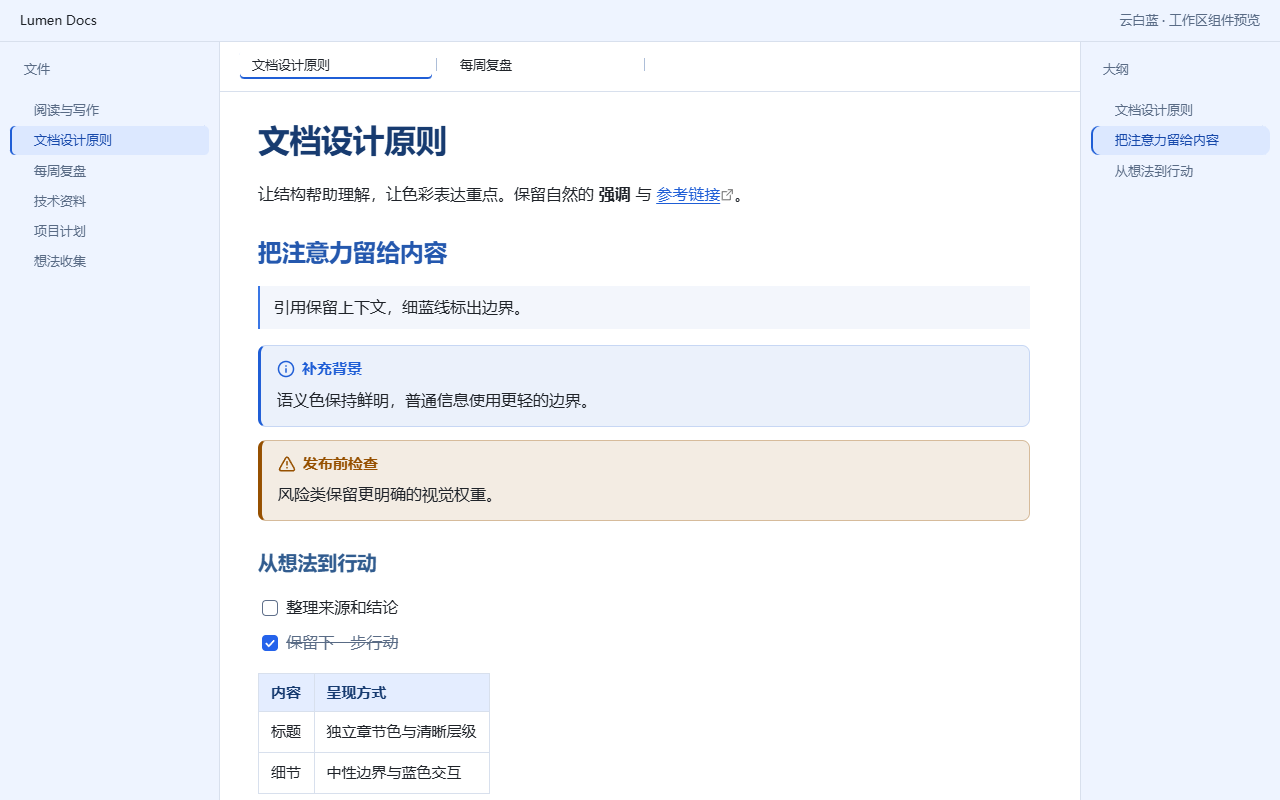
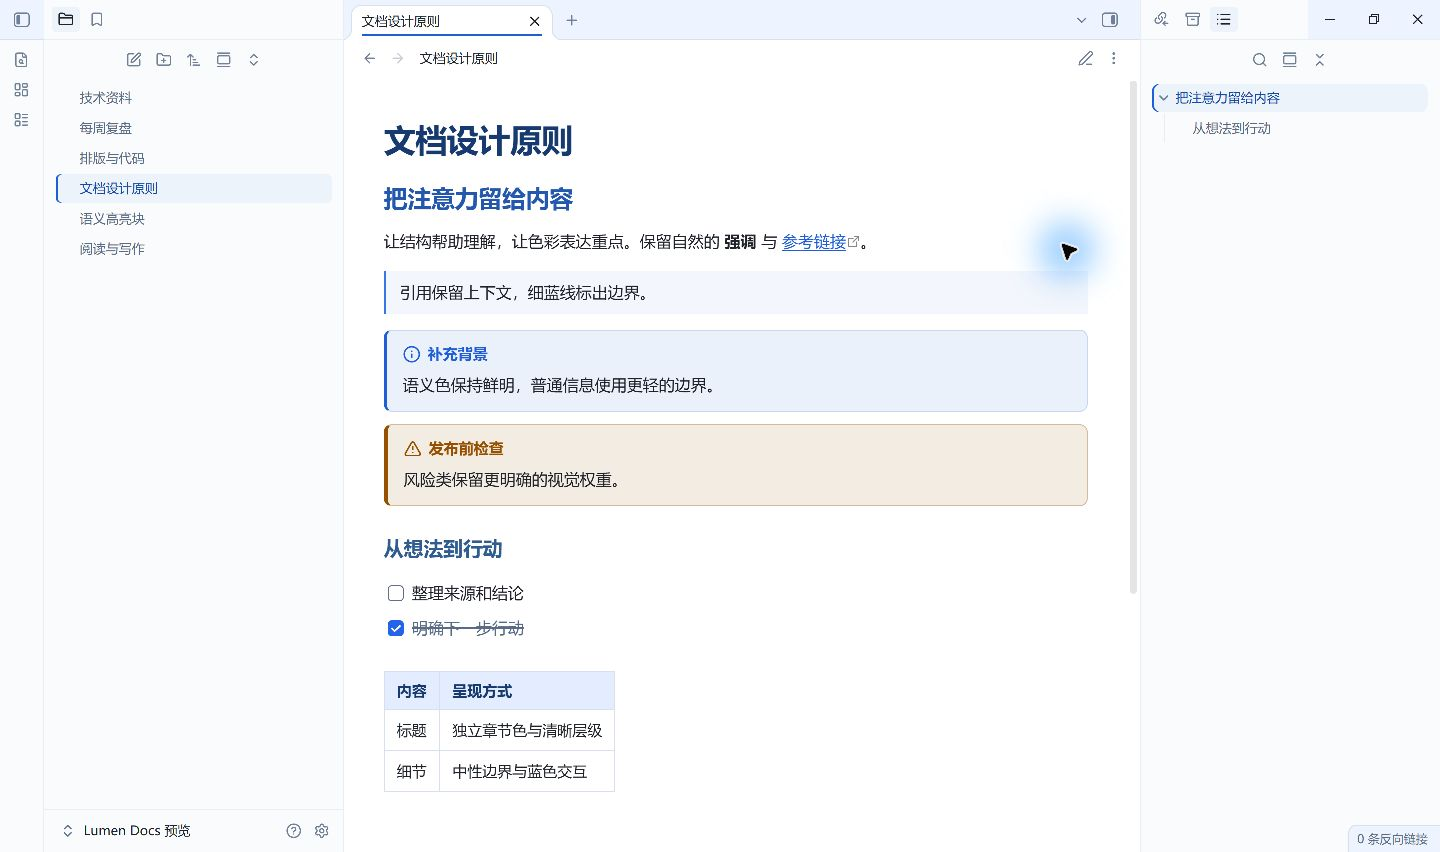
feat: release Lumen Docs 0.1.3 with lighter sidebars

diff --git a/theme.css b/theme.css
@@ -1,5 +1,5 @@
 /*
- * Lumen Docs 0.1.2
+ * Lumen Docs 0.1.3
  * Cloud white, ink-blue headings, and clear semantic color for Obsidian.
  * Copyright (c) 2026 Zheng and Lumen Docs contributors. MIT License.
  */
@@ -367,6 +367,33 @@ body {
 
 .workspace-ribbon, .workspace-split.mod-left-split, .workspace-split.mod-right-split {
   background: var(--background-secondary);
+}
+
+/* A trace of cool color keeps light sidebars close to the white document. */
+.theme-light :is(.workspace-ribbon, .workspace-split.mod-left-split, .workspace-split.mod-right-split) {
+  --background-secondary: #f9fbfd;
+  --background-secondary-alt: #f2f6fa;
+  --background-modifier-border: #e9eef4;
+  --background-modifier-border-hover: #d7e1ed;
+  --divider-color: #e9eef4;
+  --background-modifier-hover: rgb(37 99 235 / 4%);
+  --nav-item-background-hover: rgb(37 99 235 / 4%);
+  --nav-item-background-active: #edf3fb;
+  --nav-indentation-guide-color: #e7edf4;
+  --tab-container-background: #f9fbfd;
+  --tab-background-active: #edf3fb;
+  --scrollbar-bg: rgb(89 107 133 / 4%);
+  --scrollbar-thumb-bg: rgb(89 107 133 / 14%);
+  --scrollbar-active-thumb-bg: rgb(89 107 133 / 24%);
+}
+
+.theme-light :is(.workspace-split.mod-left-split, .workspace-split.mod-right-split) .workspace-tab-header-container {
+  background: var(--background-secondary);
+  border-color: var(--background-modifier-border);
+}
+
+.theme-light :is(.workspace-split.mod-left-split, .workspace-split.mod-right-split) .workspace-tab-header.is-active .workspace-tab-header-inner {
+  background: var(--nav-item-background-active);
 }
 
 .nav-file-title, .nav-folder-title {

diff --git a/README.md b/README.md
@@ -8,31 +8,31 @@ Lumen Docs is a lightweight Obsidian theme for clear, comfortable document readi
 
 The theme supports light and dark appearances in Live Preview and Reading view. It uses native Obsidian CSS variables and needs no additional plugins, downloaded fonts, or network services.
 
-Version: **0.1.2**. Requires **Obsidian 1.13.0 or later**.
+Version: **0.1.3**. Requires **Obsidian 1.13.0 or later**.
 
-The previews and features below describe the current repository, including unreleased refinements after **0.1.2**. For that appearance, download [theme.css](theme.css) and [manifest.json](manifest.json) from the default branch; GitHub Release **0.1.2** retains its published appearance.
+Version 0.1.3 adds near-white light sidebars and softer document styling. Download the installation files from [Releases](https://github.com/Beta-Zheng/lumen-docs/releases/latest).
 
 ## Preview
 
-Previews use isolated sample content rendered in Obsidian. The workspace component views show native interface elements with sample file names.
+Captured with Lumen Docs 0.1.3 in Obsidian 1.15.0 using an isolated sample vault. All file names and documents are demonstration content.
 
 ### Light
 
-![Lumen Docs light appearance](screenshots/light.png)
+![Lumen Docs 0.1.3 light workspace with near-white sidebars](screenshots/interface-light.png)
 
-[Content details](screenshots/details-light.png) · [Semantic callouts](screenshots/callouts-light.png) · [Workspace components](screenshots/interface-light.png)
+[Document layout](screenshots/light.png) · [Content details](screenshots/details-light.png) · [Semantic callouts](screenshots/callouts-light.png)
 
 ### Dark
 
-![Lumen Docs dark appearance](screenshots/dark.png)
+![Lumen Docs 0.1.3 dark workspace](screenshots/interface-dark.png)
 
-[Content details](screenshots/details-dark.png) · [Semantic callouts](screenshots/callouts-dark.png) · [Workspace components](screenshots/interface-dark.png)
+[Document layout](screenshots/dark.png) · [Content details](screenshots/details-dark.png) · [Semantic callouts](screenshots/callouts-dark.png)
 
 ## Installation
 
 ### Manual installation
 
-1. Download **`theme.css` and `manifest.json`** from a GitHub Release for its published appearance, or from the default branch for the refinements shown here. Use both files from the same source. The source archive is optional; the two files are sufficient to install the theme.
+1. Download **`theme.css` and `manifest.json`** from the same [GitHub Release](https://github.com/Beta-Zheng/lumen-docs/releases/latest). The source archive is optional; the two files are sufficient to install the theme.
 2. Create `.obsidian/themes/Lumen Docs/` inside your vault and copy both files there. If your vault uses a custom configuration folder, use that folder instead of `.obsidian`.
 3. Open **Settings → Appearance → Themes** and select **Lumen Docs**. Reopen Settings or restart Obsidian if the theme does not appear immediately.
 4. Choose light, dark, or your preferred system appearance.
@@ -53,7 +53,7 @@ Installation does not require Node.js or community plugins. To update, replace b
 - **Blue identity:** ink-blue titles, deeper blue chapter headings, and slate-blue subheadings establish hierarchy. Chapter headings use their own color rather than sharing the brighter link color; the smallest heading stays at the body text size.
 - **Comfortable layout:** the default readable width is 800px and line height is 1.7. Font family and text size follow your Obsidian settings.
 - **Purposeful accents:** blue identifies links, checked tasks, and interactive states; amber-yellow marks highlighted text.
-- **Clear structure:** thin blue quote rules, blue-tinted table headers, and cloud-blue sidebars make the document structure visible. Neutral structural borders keep ordinary content from competing for attention.
+- **Clear structure:** thin blue quote rules, blue-tinted table headers, and near-white light sidebars make the document structure visible. Neutral structural borders keep ordinary content from competing for attention.
 - **Readable code:** keywords, functions, strings, values, and comments have distinct roles on a neutral background.
 - **Consistent details:** tags, note embeds, footnotes, menus, suggestions, and keyboard focus share quiet surfaces and clear blue accents. Optional desktop navigation density changes file and outline row spacing without shrinking note text or mobile targets.
 - **Responsive spacing:** narrower screens use smaller page margins, compact callout padding, and wrapping for long titles and tags.
@@ -93,7 +93,7 @@ Compact styling applies only to non-collapsible `note` callouts and visually hid
 | Role | Light | Dark |
 | --- | --- | --- |
 | Document background | `#FFFFFF` | `#172033` |
-| Sidebar background | `#EEF4FF` | `#111A2B` |
+| Sidebar background | `#F9FBFD` | `#111A2B` |
 | Body text | `#1F2329` | `#E2EAF6` |
 | Secondary text | `#596B85` | `#AEBBD0` |
 | Document title | `#173B70` | `#D1E2FF` |

diff --git a/README.zh-CN.md b/README.zh-CN.md
@@ -8,25 +8,25 @@
 
 支持浅色与深色外观，适用于实时预览和阅读视图。主题使用原生 CSS 变量，不需要额外插件、字体或网络服务。
 
-当前版本：**0.1.2**。
+当前版本：**0.1.3**。
 
-以下预览和功能说明对应仓库当前代码，包含 **0.1.2 之后尚未发布的优化**。体验本页样式时，请从默认分支下载 [theme.css](theme.css) 和 [manifest.json](manifest.json)；GitHub Release **0.1.2** 保留已发布时的外观。
+0.1.3 带来接近白色的浅色侧栏，以及更柔和的文档排版。安装文件可从 [Releases](https://github.com/Beta-Zheng/lumen-docs/releases/latest) 下载。
 
 ## 预览
 
-预览使用在 Obsidian 中渲染的独立示例内容；工作区组件预览采用原生界面元素与示例文件名。
+以下截图使用 Lumen Docs 0.1.3，在 Obsidian 1.15.0 的独立示例库中截取。文件名与文档均为演示内容。
 
 ### 浅色
 
-![Lumen Docs 浅色外观](screenshots/light.png)
+![Lumen Docs 0.1.3 浅色工作区与接近白色的侧栏](screenshots/interface-light.png)
 
-[内容细节](screenshots/details-light.png) · [高亮块配色](screenshots/callouts-light.png) · [工作区组件](screenshots/interface-light.png)
+[文档排版](screenshots/light.png) · [内容细节](screenshots/details-light.png) · [高亮块配色](screenshots/callouts-light.png)
 
 ### 深色
 
-![Lumen Docs 深色外观](screenshots/dark.png)
+![Lumen Docs 0.1.3 深色工作区](screenshots/interface-dark.png)
 
-[内容细节](screenshots/details-dark.png) · [高亮块配色](screenshots/callouts-dark.png) · [工作区组件](screenshots/interface-dark.png)
+[文档排版](screenshots/dark.png) · [内容细节](screenshots/details-dark.png) · [高亮块配色](screenshots/callouts-dark.png)
 
 ## 安装与使用
 
@@ -34,7 +34,7 @@
 
 ### 手动安装
 
-1. 从本仓库的 GitHub Release 下载 `theme.css` 和 `manifest.json`，使用该版本的已发布样式；体验本页所示优化时，从默认分支下载。请使用同一来源的两个安装文件。
+1. 从同一个 [GitHub Release](https://github.com/Beta-Zheng/lumen-docs/releases/latest) 下载 `theme.css` 和 `manifest.json`。
 2. 在笔记库配置目录中创建 `.obsidian/themes/Lumen Docs/`，将两个文件放入其中。
 3. 打开 Obsidian「设置 → 外观 → 主题」，选择 **Lumen Docs**。如果没有出现在列表中，重新打开设置或重启 Obsidian。
 4. 按偏好选择浅色、深色或跟随系统外观。
@@ -98,7 +98,7 @@ console.log(message);
 - **引用**：细蓝线与灰蓝底色，正文保持清晰，保留用户明确写下的斜体。
 - **表格**：浅蓝表头、清晰网格线和单元格留白建立结构。
 - **代码**：中性底色搭配按角色区分的语法色；行内代码保持安静。
-- **界面**：云蓝侧栏、明确的选中底色与蓝色活动标记，与正文保持清楚的层次。
+- **界面**：浅色侧栏接近白色，配合淡蓝灰选中底色与蓝色活动标记；深色保留夜蓝层次。
 - **细节**：标签、笔记嵌入、脚注、菜单、候选项与键盘焦点采用同一套灰阶和蓝色强调；结构边框使用中性色，避免处处强调。
 - **密度**：桌面文件列表与大纲可选择舒适或紧凑行间距，正文排版与移动端触控尺寸保持原生行为。
 - **窄屏**：缩小页边距和提示块内边距，长标题与标签可自然换行。
@@ -127,7 +127,7 @@ console.log(message);
 | 用途 | 浅色 | 深色 |
 | --- | --- | --- |
 | 正文背景 | `#FFFFFF` | `#172033` |
-| 侧栏背景 | `#EEF4FF` | `#111A2B` |
+| 侧栏背景 | `#F9FBFD` | `#111A2B` |
 | 正文文字 | `#1F2329` | `#E2EAF6` |
 | 次要文字 | `#596B85` | `#AEBBD0` |
 | 文档标题 | `#173B70` | `#D1E2FF` |

diff --git a/CHANGELOG.md b/CHANGELOG.md
@@ -1,7 +1,9 @@
 # 更新记录
 
-## 未发布
+## 0.1.3 · 2026-11-09
 
+- 浅色左右侧栏改用若有若无的冷白底色，减淡选中、悬停、边线和滚动条，保留文字与焦点的清晰度。
+- 使用独立示例库，在真实 Obsidian 1.15.0 中重新截取浅深工作区、正文、代码与语义高亮块预览，同步中英文 README 和社区缩略图。
 - 将章节标题色与链接色分离，最小一级标题保持正文字号，收紧低级标题的段前间距。
 - 普通标注块采用更轻的边框与 3px 色条，警告和风险类保留更强的底色与 4px 色条。
 - 新增标注块「重点强调」外观，保留先前的鲜明样式；标题与图标随字号缩放。

diff --git a/CONTRIBUTING.md b/CONTRIBUTING.md
@@ -20,7 +20,7 @@
 node build.cjs
 ```
 
-输出目录为 `release/0.1.1/`（随清单版本变化）：
+输出目录为 `release/<version>/`（随清单版本变化）：
 
 - `theme.css`、`manifest.json`：可直接上传 GitHub Release 的两个文件。
 - `Lumen Docs/`：包含安装文件、说明和许可的手动安装文件夹。
